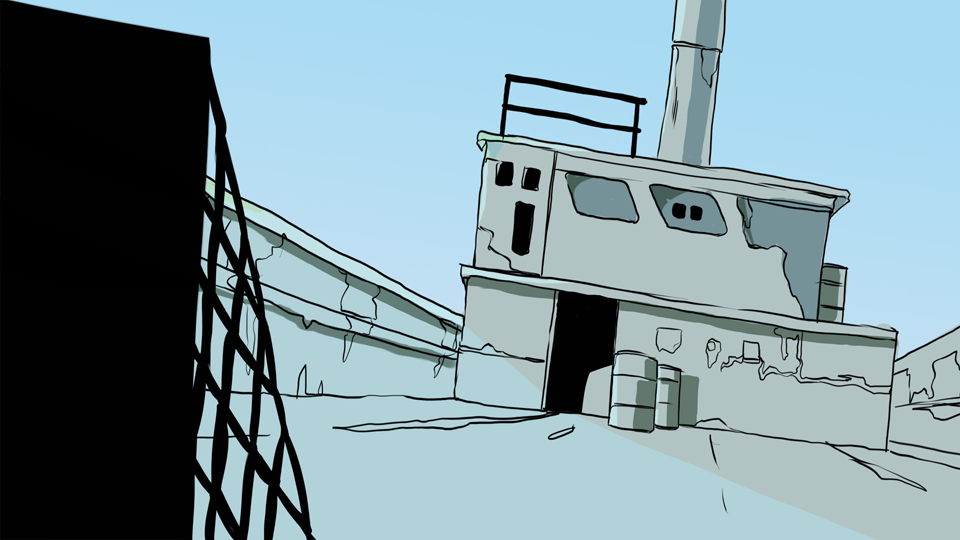
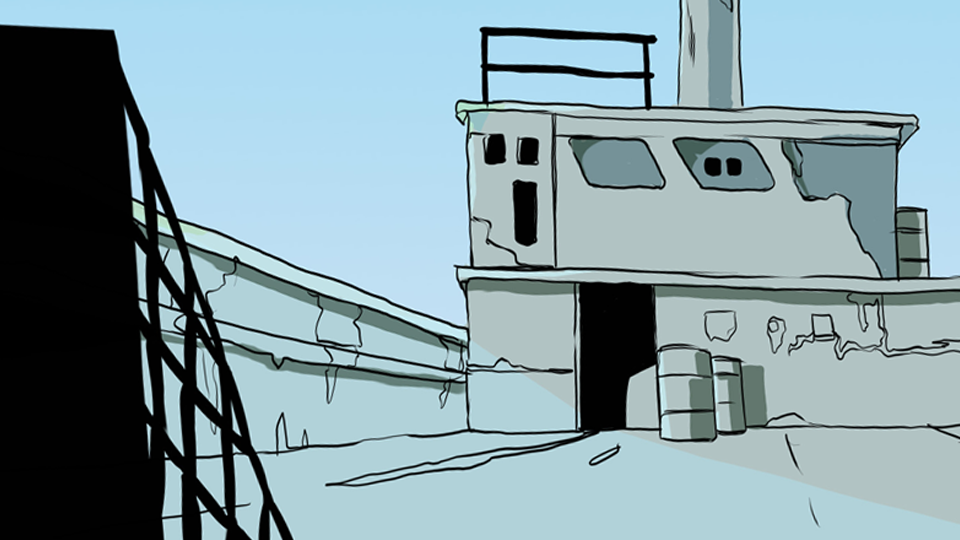
Added animation to ship

diff --git a/index.html b/index.html
@@ -15,11 +15,13 @@
       <div id="intro-title" data-parallax="true" data-parallax-axis="x" data-parallax-z="0.2"><img src="assets/media/lhi.png"></div>
       <div id="intro-arrow">&rarr;</div>
     </div>
-    <div class="slide" id="start-slide" data-order="3" data-src="slide5">
+    
+    <div class="slide" id="start-slide" data-order="6" data-src="slide5">
       <video id="start-video">
         <source src="assets/media/intro.mp4">
       </video>
     </div>
+    
     <div class="slide" id="waiting-slide" data-order="2" data-src="slide4">
       <div data-choice-panel="left">
         <video data-parallax="true" data-parallax-axis="x" data-parallax-z="0.1">
@@ -35,7 +37,7 @@
       </div>
     </div>
     
-    <div class="slide" id="rocket-slide" data-order="1" data-src="slide6">
+    <div class="slide" id="rocket-slide" data-order="3" data-src="slide6">
       <div data-choice-panel="left">
         <video data-parallax="true" data-parallax-axis="x" data-parallax-z="0.1">
           <source src="assets/media/hijack.webm" />
@@ -53,7 +55,7 @@
       </div>
     </div>
     
-    <div class="slide" id="deck-slide" data-order="3" data-src="slide3">
+    <div class="slide" id="deck-slide" data-order="5" data-src="slide3">
       <div data-choice-panel="left">
         <video data-parallax="true" data-parallax-axis="x" data-parallax-z="0.1">
           <source src="assets/media/hijack.webm" />
@@ -72,18 +74,18 @@
       </div>
     </div>
     
-     <div class="slide" id="ship-slide" data-order="3" data-src="slide2">
+     <div class="slide" id="ship-slide" data-order="1" data-src="slide2">
       <div data-choice-panel="left">
         <video data-parallax="true" data-parallax-axis="x" data-parallax-z="0.1">
           <source src="assets/media/hijack.webm" />
         </video>
       </div>
-      <img src="assets/media/ship-background.png" alt=""/>
+      <img id="ship-background" src="assets/media/ship-background.png" alt=""/>
       <img id="hostage-left" src="assets/media/hostage-left.png" alt="" data-parallax data-parallax-axis="x"/>
       <img id="hostage-right" src="assets/media/hostage-right.png" alt="" data-parallax data-parallax-axis="x"/>
       <img id="hijacker-right" src="assets/media/hijacker-right.png" alt="" data-parallax data-parallax-axis="x"/>
       <img id="hijacker-left" src="assets/media/hijacker-left.png" alt="" data-parallax data-parallax-z="0.2" data-parallax-axis="x"/>
-      <img src="assets/media/ship-foreground.png" alt=""/>
+      <img id="ship-foreground" src="assets/media/ship-foreground.png" alt=""/>
       <div data-choice-panel="right">
         LOL!!
       </div>

diff --git a/src/slides/slide2.js b/src/slides/slide2.js
@@ -1,12 +1,38 @@
 define(["../slide", "../panels"], function(Slide, Panels){
 
+  var _elapsedTime = 0;
   var slideElement = document.getElementById("ship-slide"),
       videos = slideElement.querySelectorAll("*[data-choice-panel] video");
+      
+  // Seperate elements
+  var peopleElements = [document.getElementById("hostage-left"), document.getElementById("hostage-right"),
+    document.getElementById("hijacker-right"), document.getElementById("hijacker-left")];
+  var peopleOffsets = [peopleElements[0].offsetTop, peopleElements[1].offsetTop,
+    peopleElements[2].offsetTop, peopleElements[3].offsetTop];
+  
+  var shipElements = [document.getElementById("ship-background"), document.getElementById("ship-foreground")];
+  var shipOffsets = [
+    [shipElements[0].offsetTop, shipElements[0].offsetLeft],
+    [shipElements[1].offsetTop, shipElements[1].offsetLeft]];
 
   var _panels = new Panels(slideElement);
 
   var slide = new Slide("ship-slide", {
     update: function(){
+      _elapsedTime += 0.1;
+      
+      // Calculate offsets
+      var offsetX = Math.sin(_elapsedTime * 0.2) * 16;
+      var offsetY = Math.sin(_elapsedTime * 0.55) * 4;
+      
+      // Apply offsets
+      for (var i = peopleElements.length - 1; i > -1; i--) {
+        peopleElements[i].style.top = peopleOffsets[i] + offsetY + "px";
+      }
+      for (var i = shipElements.length - 1; i > -1; i--) {
+        shipElements[i].style.top = shipOffsets[i][0] + offsetY + "px";
+        shipElements[i].style.left = shipOffsets[i][1] + offsetX + "px";
+      }
     },
     start: function(){
       _panels.start();

diff --git a/src/slides/slide3.js b/src/slides/slide3.js
@@ -3,7 +3,7 @@ define(["../slide", "../panels", "../timer"], function(Slide, Panels, Timer){
 			THRESHOLD = 0.5,
 			RADIUS = 250;
 	
-	var _lastX = 0, _lastY = 0, _lastTime = 0;
+	var _lastX = 0, _lastY = 0, _elapsedTime = 0;
 	var _slideElement = document.getElementById("deck-slide");
 	var _deckBackgroundElement = document.getElementById("deck-background");
 	var _deckBackgroundBlurredElement = document.getElementById("deck-background-blurred");
@@ -21,9 +21,9 @@ define(["../slide", "../panels", "../timer"], function(Slide, Panels, Timer){
 	
 		update: function() {
 			// Move a little with a sin
-			_lastTime += 0.1;
-			_deckBackgroundElement.style.left = Math.sin(_lastTime * 0.2) * 16 + "px";
-			_deckBackgroundElement.style.top = Math.sin(Math.sin(_lastTime)) * 4 + "px";
+			_elapsedTime += 0.1;
+			_deckBackgroundElement.style.left = Math.sin(_elapsedTime * 0.2) * 16 + "px";
+			_deckBackgroundElement.style.top = Math.sin(_elapsedTime * 0.55) * 4 + "px";
 			
 			// Check mouse center
 			var centerX = CENTER_RECT[0] + parseInt(_slideElement.style.left);

diff --git a/src/slides/slide4.js b/src/slides/slide4.js
@@ -1,16 +1,17 @@
-define(["../slide", "../panels"], function(Slide, Panels){
+define(["../slide", "../panels", "../timer"], function(Slide, Panels, Timer){
   // Wait for panels to display after a certain amount of time...
   var SHOW_PANELS_DELAY = 5.0,
-      VIDEO_END_WINDOW = 2;
+      VIDEO_END_WINDOW = 1;
   
   var slideElement = document.getElementById("waiting-slide");
   var panels = document.querySelectorAll("#waiting-slide > [data-choice-panel]");
   var panelVideos = document.querySelectorAll("#waiting-slide > [data-choice-panel] video");
-  console.log(panelVideos);
   var centerVideo = document.getElementById("waiting-video");
   
   var showingPanels = false;
   var _panels = new Panels(slideElement);
+  
+  var _timer = new Timer(slideElement, 5000);
 
   var slide = new Slide("waiting-slide", {
     update: function(){

diff --git a/src/slides/slide6.js b/src/slides/slide6.js
@@ -9,6 +9,8 @@ define(["../slide", "../panels", "../tween"], function(Slide, Panels, Tween){
   var _rocketTween = new Tween(0.5);
   var _rocketOffset = [rocketElement.offsetTop, rocketElement.offsetLeft];
   
+  var panelVideos = document.querySelectorAll("#rocket-slide > [data-choice-panel] video");
+  
   var slide = new Slide("rocket-slide", {
     update: function(){
       var slideHeight = slideElement.clientHeight;
@@ -27,6 +29,10 @@ define(["../slide", "../panels", "../tween"], function(Slide, Panels, Tween){
     stop: function(){
        _rocketTween.stop();
       _panels.stop();
+      
+      for (var i = panelVideos.length -1; i>-1; i--) {
+        panelVideos[i].stop();
+      }
     }
   });
   

diff --git a/css/ship.css b/css/ship.css
@@ -5,23 +5,32 @@
 }
 #ship-slide img {
   display: inline;
+}
+#ship-background {
   position: absolute;
 }
-
+#ship-foreground {
+  position: absolute;
+  top: 23px;
+}
 #hijacker-left {
-  top: 127px;
+  position: absolute;
+  top: 159px;
   left: 447px;
 }
 #hijacker-right {
-  top: 159px;
+  position: absolute;
+  top: 209px;
   left: 681px;
 }
 #hostage-left {
-  top: 285px;
+  position: absolute;
+  top: 315px;
   left: 221px;
 }
 #hostage-right {
-  top: 159px;
+  position: absolute;
+  top: 209px;
   left: 342px;
 }
 
